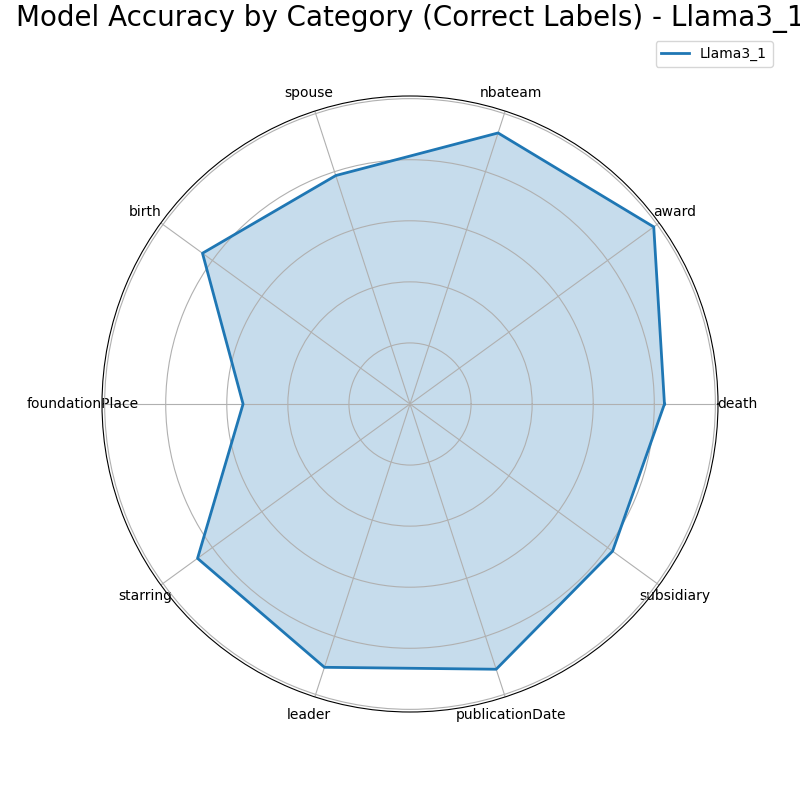
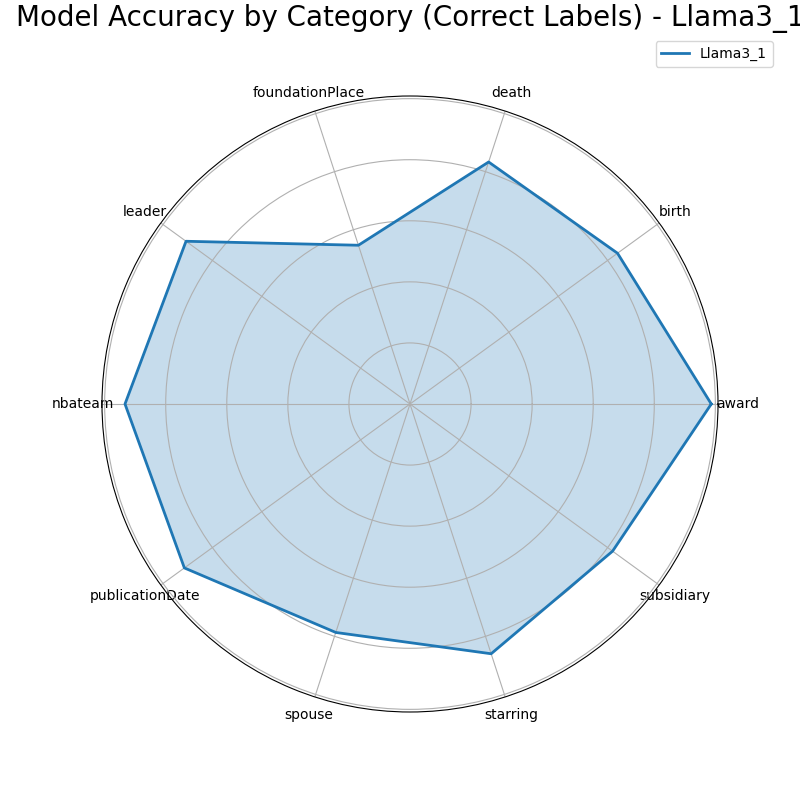
fix the ordering in the category names to have understandable chart

diff --git a/plot.py b/plot.py
@@ -54,8 +54,9 @@ def merge_and_sum(data):
     return merged_data
 
 
-def plot_data(data, title):
+def plot_data(data, title, file_name, output_dir="results",):
     accuracies = defaultdict(list)
+    data = defaultdict(list, sorted(data.items()))
 
     for category, values in data.items():
         for model_name, correct, wrong in values:
@@ -82,10 +83,12 @@ def plot_data(data, title):
     ax.set_ylim(0, 1)
     ax.legend()
     plt.tight_layout()
-    plt.show()
+    plt.savefig(os.path.join(output_dir, file_name))
+    plt.close()
+    # plt.show()
 
 
-def plot_radar_chart(data, models, title, file_name, output_dir="results", ):
+def plot_radar_chart(data, models, title, file_name, output_dir="results" ):
     categories = list(data.keys())
     num_vars = len(categories)
     angles = np.linspace(0, 2 * np.pi, num_vars, endpoint=False).tolist()
@@ -121,6 +124,8 @@ def plot_radar_chart(data, models, title, file_name, output_dir="results", ):
 
 
 def plot_all_radar_charts(data, title, models, filename, output_dir="results"):
+    # sort data by their category
+    data = defaultdict(list, sorted(data.items()))
     plot_radar_chart(data, models, title, filename, output_dir)
 
 
@@ -161,6 +166,8 @@ def plot_radar_chart_2(data, models, title, filename, output_dir="results"):
 
 
 def plot_all_radar_charts_2(data, title, models, filename, output_dir="results"):
+    # sort data by their category
+    data = defaultdict(list, sorted(data.items()))
     plot_radar_chart_2(data, models, title, filename, output_dir)
 
 
@@ -170,19 +177,19 @@ raw_data = load_and_process_data(LLM_MODELS, gt)
 processed_data = prepare_data(raw_data)
 
 
-# plot_data(processed_data['correct'], "Model Accuracy by Category for Correct Labels")
-# plot_data(processed_data['wrong'], "Model Accuracy by Category for Wrong Labels")
-# plot_data(merge_and_sum(processed_data['combined']), "Model Accuracy by Category for All")
-#
-#
-# plot_all_radar_charts(processed_data['correct'], "Model Accuracy by Category (Correct Labels)", LLM_MODELS, "correct_radar_chart.png")
-# plot_all_radar_charts(processed_data['wrong'], "Model Accuracy by Category (Wrong Labels)", LLM_MODELS, "wrong_radar_chart.png")
-# plot_all_radar_charts(merge_and_sum(processed_data['combined']), "Model Accuracy by Category", LLM_MODELS, f"radar_chart.png")
-#
-#
-# plot_all_radar_charts_2(processed_data['correct'], "Model Accuracy by Category (Correct Labels)", LLM_MODELS, "correct_radar_chart.png")
-# plot_all_radar_charts_2(processed_data['wrong'], "Model Accuracy by Category (Wrong Labels)", LLM_MODELS, "wrong_radar_chart.png")
-# plot_all_radar_charts_2(merge_and_sum(processed_data['combined']), "Model Accuracy by Category", LLM_MODELS, f"radar_chart.png")
+plot_data(processed_data['correct'], "Model Accuracy by Category for Correct Labels", "Figure_1.png")
+plot_data(processed_data['wrong'], "Model Accuracy by Category for Wrong Labels", "Figure_2.png")
+plot_data(merge_and_sum(processed_data['combined']), "Model Accuracy by Category for All", "Figure_3.png")
+
+
+plot_all_radar_charts(processed_data['correct'], "Model Accuracy by Category (Correct Labels)", LLM_MODELS, "correct_radar_chart.png")
+plot_all_radar_charts(processed_data['wrong'], "Model Accuracy by Category (Wrong Labels)", LLM_MODELS, "wrong_radar_chart.png")
+plot_all_radar_charts(merge_and_sum(processed_data['combined']), "Model Accuracy by Category", LLM_MODELS, f"radar_chart.png")
+
+
+plot_all_radar_charts_2(processed_data['correct'], "Model Accuracy by Category (Correct Labels)", LLM_MODELS, "correct_radar_chart.png")
+plot_all_radar_charts_2(processed_data['wrong'], "Model Accuracy by Category (Wrong Labels)", LLM_MODELS, "wrong_radar_chart.png")
+plot_all_radar_charts_2(merge_and_sum(processed_data['combined']), "Model Accuracy by Category", LLM_MODELS, f"radar_chart.png")
 
 
 def generate_markdown(data, title, file_path):
@@ -192,6 +199,8 @@ def generate_markdown(data, title, file_path):
         for model_name, correct, wrong in values:
             accuracy = correct / (correct + wrong)
             accuracies[model_name][category] = accuracy
+
+    data = defaultdict(list, sorted(data.items()))
 
     # Prepare data for markdown
     categories = list(data.keys())
@@ -216,7 +225,7 @@ def generate_markdown(data, title, file_path):
     with open(file_path, "w") as file:
         file.write(markdown_content)
 
-
+#
 generate_markdown(processed_data['correct'], "Model Accuracy by Category (Correct Labels)", "correct_table.md")
 generate_markdown(processed_data['wrong'], "Model Accuracy by Category (Wrong Labels)", "wrong_table.md")
 generate_markdown(merge_and_sum(processed_data['combined']), "Model Accuracy by Category", f"table.md")

diff --git a/README.md b/README.md
@@ -1,34 +1,32 @@
 # Results
 ### Model Accuracy by Category (Correct Labels)
 
-| Model     | death | award | nbateam | spouse | birth | foundationPlace | starring | leader | publicationDate | subsidiary | Total |
+| Model     | award | birth | death | foundationPlace | leader | nbateam | publicationDate | spouse | starring | subsidiary | Total |
 |-----------|----------|----------|----------|----------|----------|----------|----------|----------|----------|----------|----------|
-| Gemma2 | 0.92 | 1.00 | 0.99 | 0.79 | 0.97 | 0.59 | 0.95 | 0.99 | 0.97 | 0.91 | 0.91 |
-| Llama3_1 | 0.83 | 0.99 | 0.93 | 0.79 | 0.84 | 0.55 | 0.86 | 0.91 | 0.91 | 0.82 | 0.84 |
-| Mistral | 0.95 | 1.00 | 1.00 | 0.98 | 0.99 | 0.65 | 0.99 | 1.00 | 0.97 | 0.93 | 0.94 |
-| Qwen2 | 0.96 | 1.00 | 1.00 | 0.92 | 0.99 | 0.73 | 0.95 | 1.00 | 0.95 | 0.91 | 0.94 |
-
+| Gemma2 | 1.00 | 0.97 | 0.92 | 0.59 | 0.99 | 0.99 | 0.97 | 0.79 | 0.95 | 0.91 | 0.91 |
+| Llama3_1 | 0.99 | 0.84 | 0.83 | 0.55 | 0.91 | 0.93 | 0.91 | 0.79 | 0.86 | 0.82 | 0.84 |
+| Mistral | 1.00 | 0.99 | 0.95 | 0.65 | 1.00 | 1.00 | 0.97 | 0.98 | 0.99 | 0.93 | 0.94 |
+| Qwen2 | 1.00 | 0.99 | 0.96 | 0.73 | 1.00 | 1.00 | 0.95 | 0.92 | 0.95 | 0.91 | 0.94 |
 
 
 ### Model Accuracy by Category (Wrong Labels)
 
-| Model     | starring | death | award | nbateam | spouse | birth | foundationPlace | leader | publicationDate | subsidiary | Total |
+| Model     | award | birth | death | foundationPlace | leader | nbateam | publicationDate | spouse | starring | subsidiary | Total |
 |-----------|----------|----------|----------|----------|----------|----------|----------|----------|----------|----------|----------|
-| Gemma2 | 0.92 | 0.96 | 0.99 | 0.72 | 0.91 | 0.96 | 0.79 | 0.93 | 0.92 | 0.78 | 0.89 |
-| Llama3_1 | 0.78 | 0.84 | 0.79 | 0.64 | 0.82 | 0.85 | 0.80 | 0.84 | 0.80 | 0.77 | 0.79 |
-| Mistral | 0.66 | 0.88 | 0.74 | 0.55 | 0.78 | 0.86 | 0.74 | 0.82 | 0.68 | 0.73 | 0.74 |
-| Qwen2 | 0.72 | 0.81 | 0.82 | 0.48 | 0.76 | 0.82 | 0.53 | 0.81 | 0.67 | 0.67 | 0.71 |
-
+| Gemma2 | 0.99 | 0.96 | 0.96 | 0.79 | 0.93 | 0.72 | 0.92 | 0.91 | 0.92 | 0.78 | 0.89 |
+| Llama3_1 | 0.79 | 0.85 | 0.84 | 0.80 | 0.84 | 0.64 | 0.80 | 0.82 | 0.78 | 0.77 | 0.79 |
+| Mistral | 0.74 | 0.86 | 0.88 | 0.74 | 0.82 | 0.55 | 0.68 | 0.78 | 0.66 | 0.73 | 0.74 |
+| Qwen2 | 0.82 | 0.82 | 0.81 | 0.53 | 0.81 | 0.48 | 0.67 | 0.76 | 0.72 | 0.67 | 0.71 |
 
 
 ### Model Accuracy by Category
 
-| Model     | starring | death | award | nbateam | spouse | birth | foundationPlace | leader | publicationDate | subsidiary | Total |
+| Model     | award | birth | death | foundationPlace | leader | nbateam | publicationDate | spouse | starring | subsidiary | Total |
 |-----------|----------|----------|----------|----------|----------|----------|----------|----------|----------|----------|----------|
-| Gemma2 | 0.94 | 0.94 | 1.00 | 0.86 | 0.85 | 0.96 | 0.69 | 0.96 | 0.95 | 0.85 | 0.90 |
-| Llama3_1 | 0.82 | 0.84 | 0.90 | 0.80 | 0.80 | 0.85 | 0.66 | 0.88 | 0.86 | 0.80 | 0.82 |
-| Mistral | 0.84 | 0.92 | 0.88 | 0.79 | 0.89 | 0.93 | 0.69 | 0.91 | 0.84 | 0.84 | 0.85 |
-| Qwen2 | 0.84 | 0.89 | 0.92 | 0.76 | 0.85 | 0.91 | 0.64 | 0.91 | 0.82 | 0.80 | 0.83 |
+| Gemma2 | 1.00 | 0.96 | 0.94 | 0.69 | 0.96 | 0.86 | 0.95 | 0.85 | 0.94 | 0.85 | 0.90 |
+| Llama3_1 | 0.90 | 0.85 | 0.84 | 0.66 | 0.88 | 0.80 | 0.86 | 0.80 | 0.82 | 0.80 | 0.82 |
+| Mistral | 0.88 | 0.93 | 0.92 | 0.69 | 0.91 | 0.79 | 0.84 | 0.89 | 0.84 | 0.84 | 0.85 |
+| Qwen2 | 0.92 | 0.91 | 0.89 | 0.64 | 0.91 | 0.76 | 0.82 | 0.85 | 0.84 | 0.80 | 0.83 |
 
 
 ---
